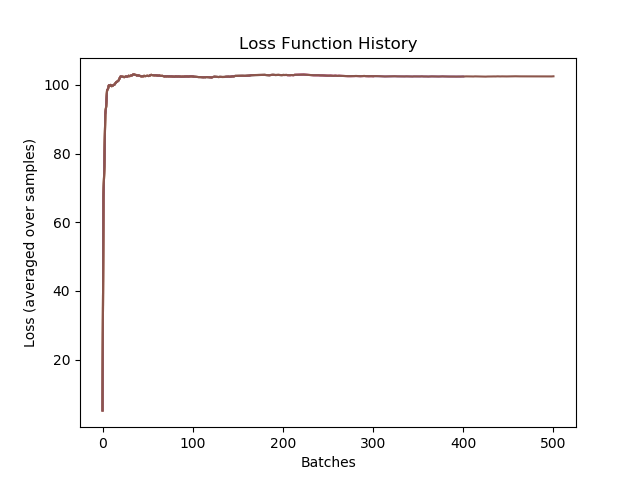
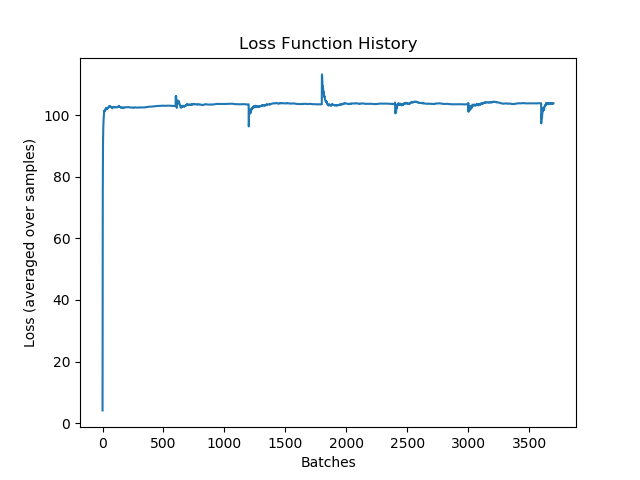
[trainig] added learnRate decay

diff --git a/DictionaryTraining.py b/DictionaryTraining.py
@@ -37,23 +37,59 @@ import gc
 def trainDictionary(train_loader, test_loader, sigLen, codeLen, datName,
                     maxEpoch = 2,
                     learnRate = 1,
+		                lrdFreq   = 30,
                     learnRateDecay = 1,
                     fistaIters = 50,
                     useL1Loss = True,
                     l1w = 0.5,
                     useCUDA = False,
+		                imSave = True,
                     imSavePath = "./",
-                    daSaveName = "dictAtoms",  #TODO: change these to kwargs otherwise enter the whole savepath and do something generic for other plots. or ONLY enter savePath and datName.
                     extension = ".png",
                     printFreq = 10,
                     saveFreq  = 100,
                     **kwargs):
+    """
+    Inputs:
+      maxEpoch : number of training epochs (1 epoch = run thru all data)
+      learnRate : weight multiplied onto gradient update
+      lrdFreq : number of batches between learnRate scaling
+      learnRateDecay: scales learnRate every lrdFreq batches, i.e.
+        epoch_LR = learnRate*(learnRateDecay**(epoch-1))
+      fistaIters : number of iterations to run FISTA when generating epoch codes
+      useL1Loss : set to false to forget sparsity requirement (or set l1w=0)
+      l1w : the L1-norm weight, balances data fidelity with sparsity
+      useCUDA : set to true for GPU acceleration
+      imSave : boolean determines whether to save images
+      dataset : name of the dataset (used in saved image files)
+      imSavePath : directory in which multiple images will be saved
+      extension : type of image to save (e.g. ".png", ".pdf")
+      printFreq : the number of batches between print statements during training
+      saveFreq : the number of batches between image saves during training
+      kwargs: optional arguments
+	      atomImName : name for dictionary atom image other than "dictAtoms"
+	      dictInitWeights: initial weights (instead of normal distribution)
+    Outputs:
+      Dict: the trained dictionary / decoder
+      lossHist : loss function history (per batch)
+      errHist : reconstruction error history (per batch)
+      spstyHist : sparsity history (per batch). i.e. the percent zeros
+          achieved during encoding with the dictionary. Encoding is
+          performed using FISTA.
+    """
+
     
     # MISC SETUP
     fistaOptions = {"returnCodes"  : True,
                     "returnCost"   : False,
-                    "returnFidErr" : True}
-    
+                    "returnFidErr" : False}
+
+    if "atomImName" in kwargs:
+        dictAtoms = kwargs["atomImName"]
+    else:
+        dictAtoms = "dictAtoms"
+    dictAtomImgName = imSavePath + datName + "_" + dictAtoms + extension
+
     # Recordbooks:
     lossHist  = []
     errHist   = []
@@ -77,19 +113,20 @@ def trainDictionary(train_loader, test_loader, sigLen, codeLen, datName,
         loss.size_average=True
         
     # Optimizer
-    SGD = torch.optim.SGD(Dict.parameters(), lr=learnRate)
-  
+    OPT = torch.optim.SGD(Dict.parameters(), lr=learnRate)
+    # For learning rate decay
+    scheduler = torch.optim.lr_scheduler.StepLR(OPT, step_size = lrdFreq,
+                                                gamma = learnRateDecay)
 ###########################
 ### DICTIONARY LEARNING ###
 ###########################
     for it in range(maxEpoch):
-        epoch_LR        = learnRate*(learnRateDecay**(it-1))
         epoch_loss      = 0
         epoch_sparsity  = 0
         epoch_rec_error = 0
     
 #================================================
-    ## TRAINING
+    # TRAINING
         numBatch = 0
         for batch_idx, (batch, labels) in enumerate(train_loader):
           gc.collect()
@@ -104,10 +141,9 @@ def trainDictionary(train_loader, test_loader, sigLen, codeLen, datName,
           fistaOut = FISTA(Y, Dict, l1w, fistaIters, fistaOptions)
 
           X        = fistaOut["codes"]
-#          residual = fistaOut["fidErr"]
           gc.collect()
          
-     ## FORWARD PASS
+      ## FORWARD PASS
           Y_est     = Dict.forward(X)   #try decoding the optimal codes
           
           if useL1Loss:
@@ -117,17 +153,18 @@ def trainDictionary(train_loader, test_loader, sigLen, codeLen, datName,
               rec_err   = loss(Y_est,Y)
               spsty_er  = 0
          
-     ## BACKWARD PASS
+      ## BACKWARD PASS
           (rec_err+l1w*spsty_er).backward()
-          SGD.step()
+          OPT.step()
+          scheduler.step()
           Dict.zero_grad()
           Dict.normalizeAtoms()
           del Dict.maxEig
          
-     ## Housekeeping
+      ## Housekeeping
           sample_loss      = (rec_err+l1w*spsty_er).data[0]
           epoch_loss      +=   sample_loss
-          lossHist.append(  epoch_loss/numBatch )
+          lossHist.append( epoch_loss/numBatch )
           
           sample_rec_error = rec_err.data[0]
           epoch_rec_error += sample_rec_error
@@ -147,8 +184,9 @@ def trainDictionary(train_loader, test_loader, sigLen, codeLen, datName,
                      sample_loss,sample_rec_error,sample_sparsity))
           
           if batch_idx % saveFreq == 0:
-              Dict.printAtomImage(imSavePath + daSaveName + extension)
+              Dict.printAtomImage(dictAtomImgName)
               printProgressFigs(imSavePath, extension, lossHist, errHist, spstyHist)
+
       ## end "TRAINING" batch-loop
 #================================================
     
@@ -176,7 +214,7 @@ def trainDictionary(train_loader, test_loader, sigLen, codeLen, datName,
 
     # Save the dictionary/decoder:
 #    torch.save(save_dir..'decoder_'..datName..'psz'..pSz..'op'..outPlane..'.t7', decoder) 
-    Dict.printAtomImage(imSavePath + daSaveName + extension)
+    Dict.printAtomImage(dictAtomImgName)
     printProgressFigs(imSavePath, extension, lossHist, errHist, spstyHist)
     return Dict,lossHist,errHist,spstyHist
 

diff --git a/pSearch.py b/pSearch.py
@@ -28,13 +28,13 @@ dataset    = "MNIST"
 patchSize  = 32
 sigLen     = patchSize**2
 codeLen    = sigLen              # "1x overcomplete"
-L1_weightList  = [.4, 0.5, 0.74]
+L1_weightList  = [.5, 0.723]
 
 # OPTIMIZATION PARAMETERS:
-maxEpoch   = 5
+maxEpoch   = 50
 batchSizeList = [100]
-learnRateList = [6e3, 6.2e3, 6.4e3, 6.6e3, 6.8e3, ]
-LRDecayList = [1, 0.999, 0.9]
+learnRateList = [6.2e3, 6.6e3]
+LRDecayList = [0.999,.9]
 
 # LOGISTICS:
 USE_CUDA = True
@@ -50,9 +50,9 @@ print('DICTIONARY TRAINING XXXXXXXXXXXXXXXXXXXX')
 count = 0;
 total = len(batchSizeList) * len(L1_weightList) * len(learnRateList) * len(LRDecayList)
 
-for j,bsz in  enumerate(batchSizeList):
+for i,bsz in  enumerate(batchSizeList):
   trainSet, testSet = loadData(dataset, patchSize, bsz)
-  for i,l1w in enumerate(L1_weightList):
+  for j,l1w in enumerate(L1_weightList):
     for k,lr in enumerate(learnRateList):
       for l, lrd in enumerate(LRDecayList):
         count += 1
@@ -64,7 +64,7 @@ for j,bsz in  enumerate(batchSizeList):
                                                   codeLen, dataset,
                                                   maxEpoch = maxEpoch,
                                                   useCUDA = USE_CUDA,
-                                                  fistaIters = 100,
+                                                  fistaIters = 65,
                                                   printFreq = 100,
                                                   saveFreq = 100,
                                                   # looped parameters:
@@ -73,7 +73,7 @@ for j,bsz in  enumerate(batchSizeList):
                                                   learnRate = lr,
                                                   learnRateDecay = lrd,
                                                   imSavePath = savePath,
-                                                  daSaveName = atomImName)
+                                                  atomImName = atomImName)
 
 
 

diff --git a/DEMO.py b/DEMO.py
@@ -28,13 +28,14 @@ import matplotlib.pyplot as plt
 #######################################################
 # Cost function parameters.
 dataset    = "MNIST"
-patchSize = 32
+patchSize  = 32
+datName    = dataset + str(patchSize)
 sigLen     = patchSize**2
 codeLen    = sigLen              # "1x overcomplete"
 L1_weight  = 1
 
 # OPTIMIZATION PARAMETERS:
-maxEpoch   = 2
+maxEpoch  = 10
 batchSize = 1e2
 learnRate = 6e3
 
@@ -52,7 +53,7 @@ atomImName = dataset + str(patchSize) + '_demoDict'
 print('XXXXXXXXXXXXXXXXXXXXXXXXXXXXXXXXXXXXXXXXXXXXXXXX')
 print('DICTIONARY TRAINING XXXXXXXXXXXXXXXXXXXX')
 Dict,lossHist,errHist,spstyHist = trainDictionary(trainSet, testSet, sigLen,
-                                                  codeLen, dataset,
+                                                  codeLen, datName,
                                                   maxEpoch = maxEpoch,
                                                   l1w = L1_weight,
                                                   batchSize = batchSize,

diff --git a/FISTA.py b/FISTA.py
@@ -26,7 +26,7 @@ from torch.autograd import Variable
 from AUX.class_nonlinearity import soft_thresh
 
 def FISTA(y0, A, alpha = 0.1, maxIter = 100,
-          returnCodes = True, returnCost = False, returnFidErr = True):
+          returnCodes = True, returnCost = False, returnFidErr = False):
 
   if not hasattr(A,'maxEig'):
       A.getMaxEigVal()

diff --git a/README.md b/README.md
@@ -1,12 +1,14 @@
 ### TO-DO
 * go thru all files for cleanup
 * perform parameter search for each dataset so good dictionaries can be obtained repeatably
+* save dictionary object
 
 # Dictionary Learning
-This repository provides some basic experiments and tools for training a linear dictionary for image patches. The training process yields a dictionary which can be used along with a sparse code to represent a signal.
+This repository provides some basic experiments and tools for training a linear dictionary (e.g. vectorized image patches).
+The training process yields a dictionary-- i.e. a matrix, whose rows are _dictionary atoms_-- which can be used along with a sparse code to represent a signal.
 This procedure is originally described in "Emergence of simple-cell receptive field properties by learning a sparse code for natural images", by Olshausen and Field [Nature, 381:607–609, 1996](https://www.nature.com/articles/381607a0).
 It is famously used in "Learning Fast Approximations of Sparse Coding" (Gregor and Lecun)
- and recently in "LSALSA: efficient sparse coding in single and multiple dictionary settings" ([Cowen, Saridena, Choromanska](https://arxiv.org/abs/1802.06875))
+ and recently in "LSALSA: efficient sparse coding in single and multiple dictionary settings" ([Cowen, Saridena, Choromanska](https://arxiv.org/abs/1802.06875)).
 
 We train by minimizing <a href="https://www.codecogs.com/eqnedit.php?latex=\mathbf{F}" target="_blank"><img src="https://latex.codecogs.com/gif.latex?\mathbf{F}" title="\mathbf{F}" /></a>
 w.r.t. <a href="https://www.codecogs.com/eqnedit.php?latex=\mathbf{A}" target="_blank"><img src="https://latex.codecogs.com/gif.latex?\mathbf{A}" title="\mathbf{A}" /></a>
@@ -27,13 +29,18 @@ is the
 <a href="https://www.codecogs.com/eqnedit.php?latex=\mathbf{x}(p)" target="_blank"><img src="https://latex.codecogs.com/gif.latex?\mathbf{x}(p)" title="\mathbf{x}(p)" /></a>
 is its corresponding sparse code.
 
-After successful minimization, the following should hold:
+After successful optimization, the following should hold:
+
 <a href="https://www.codecogs.com/eqnedit.php?latex=\mathbf{y}(p)&space;\approx&space;\mathbf{A}\mathbf{x}(p)," target="_blank"><img src="https://latex.codecogs.com/gif.latex?\mathbf{y}(p)&space;\approx&space;\mathbf{A}\mathbf{x}(p)," title="\mathbf{y}(p) \approx \mathbf{A}\mathbf{x}(p)," /></a>
 for <a href="https://www.codecogs.com/eqnedit.php?latex=p=1,...,P" target="_blank"><img src="https://latex.codecogs.com/gif.latex?p=1,...,P" title="p=1,...,P" /></a>.
+
 In other words, the sparse vector <a href="https://www.codecogs.com/eqnedit.php?latex=\mathbf{x}(p)" target="_blank"><img src="https://latex.codecogs.com/gif.latex?\mathbf{x}(p)" title="\mathbf{x}(p)" /></a>
-multiplied with the dictionary <a href="https://www.codecogs.com/eqnedit.php?latex=\mathbf{A}" target="_blank"><img src="https://latex.codecogs.com/gif.latex?\mathbf{A}" title="\mathbf{A}" /></a>
+multiplied with the (learned) dictionary <a href="https://www.codecogs.com/eqnedit.php?latex=\mathbf{A}" target="_blank"><img src="https://latex.codecogs.com/gif.latex?\mathbf{A}" title="\mathbf{A}" /></a>
 provides an efficient approximation to the signal <a href="https://www.codecogs.com/eqnedit.php?latex=\mathbf{y}(p)" target="_blank"><img src="https://latex.codecogs.com/gif.latex?\mathbf{y}(p)" title="\mathbf{y}(p)" /></a>.
 
 # Usage
 This demo requires [PyTorch](https://pytorch.org/). Once downloaded, simply execute `python DEMO.py` to run the dictionary learning demo with MNIST. The results are visualized in the `results` subdirectory.
-Looking into the `DEMO.py` code will allow you to try different datasets, play with optimization and model parameters, etc.
+
+It should be easy to play around with both model and optimization parameters.
+All you need to look at is the `DEMO.py` code (which builds the dataloader, defines parameters, calls training subroutines, etc.). 
+For more complicated options, see `DictionaryTraining.py` (where the magic happens). MNIST, CIFAR10, ASIRRA, and Fashion-MNIST are all readily available, but if you have your own dataloader for vectors you should be able to use that too.
